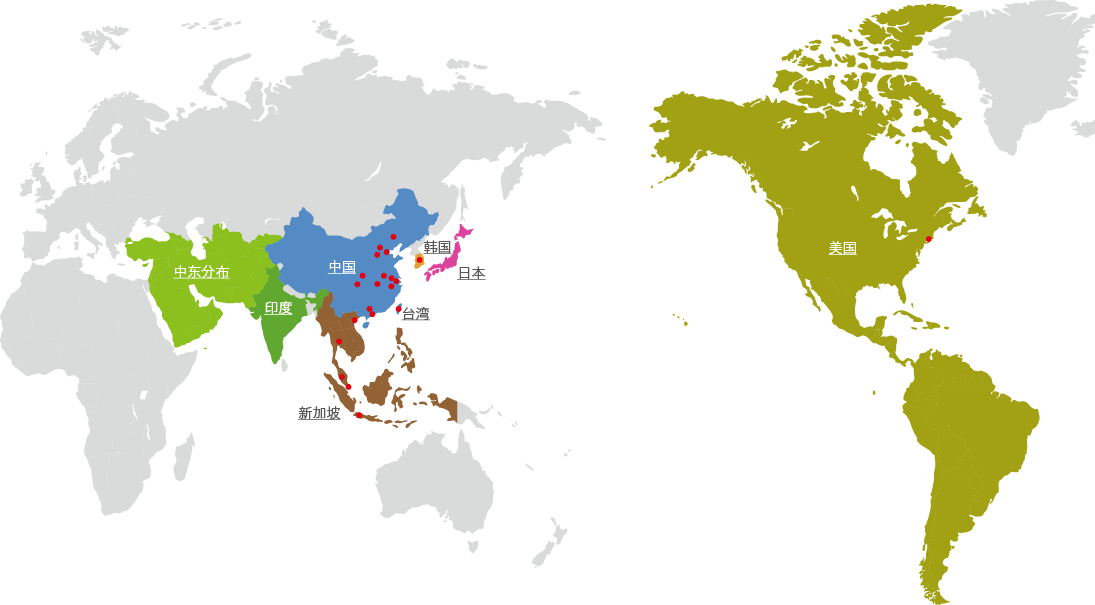
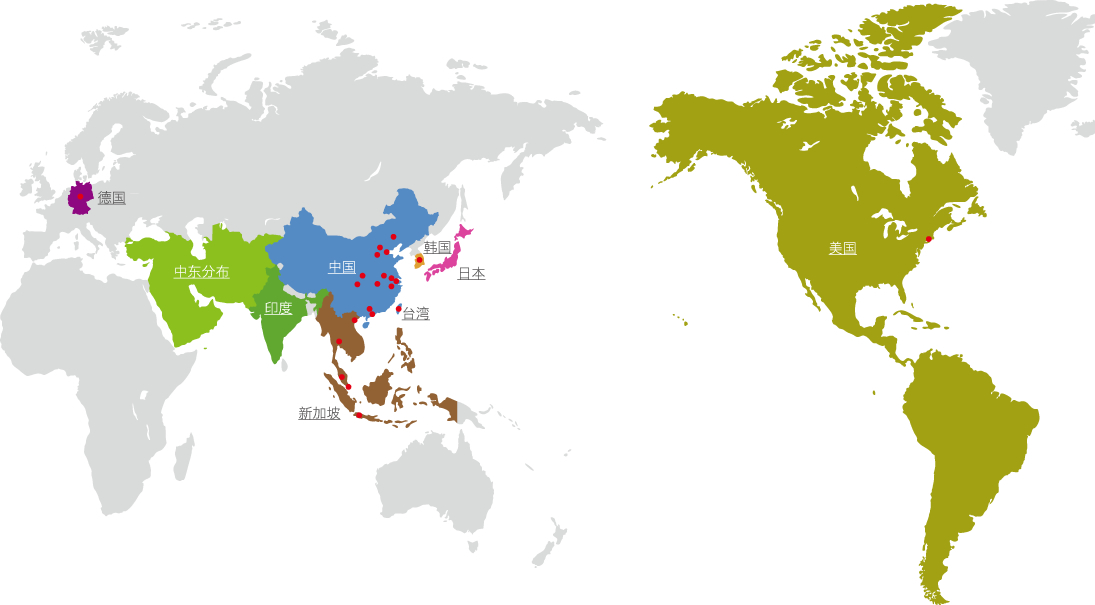
new file:   app/assets/images/front/distribution_r21_c2.jpg

diff --git a/app/assets/images/front/distribution.html b/app/assets/images/front/distribution.html
@@ -1,0 +1,368 @@
+<!DOCTYPE html PUBLIC "-//W3C//DTD XHTML 1.0 Transitional//EN" "http://www.w3.org/TR/xhtml1/DTD/xhtml1-transitional.dtd">
+<html xmlns="http://www.w3.org/1999/xhtml" lang="zh">
+<head>
+<meta http-equiv="Content-Type" content="text/html; charset=utf-8" />
+<title>HIOKI-中国区维修服务中心（日置(上海) 商贸有限公司）</title>
+<link href="../css/style.css" rel="stylesheet" type="text/css" />
+<link rel="stylesheet" href="../css/colorbox.css" type="text/css" >
+<script type="text/javascript" src="../js/scrollsmoothly.js"></script>
+<script type="text/javascript" src="../js/tab.js"></script>
+<script src="../js/jquery-1.9.1.js"></script>
+<script src="../js/jquery.colorbox.js"></script>
+<script>
+	$(document).ready(function(){
+	//Examples of how to assign the Colorbox event to elements
+		$(".health01").colorbox({iframe:true, innerWidth:925, innerHeight:515});
+		$(".callbacks").colorbox({
+			onOpen:function(){ alert('onOpen: colorbox is about to open'); },
+			onLoad:function(){ alert('onLoad: colorbox has started to load the targeted content'); },
+			onComplete:function(){ alert('onComplete: colorbox has displayed the loaded content'); },
+			onCleanup:function(){ alert('onCleanup: colorbox has begun the close process'); },
+			onClosed:function(){ alert('onClosed: colorbox has completely closed'); }
+		});
+
+		$('.non-retina').colorbox({rel:'group5', transition:'none'})
+		$('.retina').colorbox({rel:'group5', transition:'none', retinaImage:true, retinaUrl:true});
+		//Example of preserving a JavaScript event for inline calls.
+		$("#click").click(function(){ 
+			$('#click').css({"background-color":"#f00", "color":"#fff", "cursor":"inherit"}).text("Open this window again and this message will still be here.");
+			return false;
+		});
+	});
+</script>
+</head>
+
+<body>
+<a name="top" id="top"></a>
+<div class="top_bg">
+  <div class="top clearfix">
+	<p class="fl">中国区维修服务中心（日置(上海) 商贸有限公司）</p>
+    <p class="fr"><a href="#"><img src="../images/hioki_r1_c30.jpg" width="28" height="26" />会员退出</a>　<img src="../images/hioki_r1_c32.jpg" width="22" height="26" />400-920-6010</p>
+  </div>
+</div>
+<div class="header">
+  <h1 class="fl"><a href="../index.html"><img src="../images/hioki_r4_c3.jpg" alt="HIOKI" width="150" height="30" /></a></h1>
+  <ul>
+  	<li><a href="../index.html">首　　页</a></li>
+    <li><a href="../news.html">新　　闻</a></li>
+    <li><a href="../product.html">产品一览</a></li>
+    <li class="nav_li"><a href="company.html">公司介绍</a></li>
+    <li><a href="../contact.html">联系我们</a></li>
+    <li class="nav_li02"><a href="../repair.html">维修中心</a></li>
+  </ul>
+</div>
+<div class="company_banner"></div>
+<div class="news_content clearfix">
+  <div class="product_left" >
+	<h3>公司介绍<br /><span class="hioki_f15">Company</span></h3>
+	<ul class="m_top10">
+	  <li><a href="distribution.html">公司分布</a></li>
+	  <li><a href="speech.html">董事致辞</a></li>
+	  <li><a href="company.html">公司概要</a></li>
+      <li><a href="history.html">公司沿革</a></li>
+	</ul>
+  </div>
+  <div class="product_right">
+  	<p class="current"><a href="../index.html">首页</a> > <a href="company.html">公司介绍</a> > 公司分布</p>
+    <p class="m_top20"><strong class="product_f25">世界分布</strong>　※点击选择国家查看具体分布</p>
+    <p class="m_top45">&nbsp;</p>
+    <p><img src="../images/distribution_r1_c1.jpg" width="1095" height="605" border="0" usemap="#Map" />
+      <map name="Map" id="Map">
+        <area shape="poly" coords="132,261,122,243,125,235,136,241,144,237,162,240,169,237,167,230,190,240,194,247,191,253,201,260,204,257,204,245,211,240,211,225,218,223,240,232,249,241,258,234,271,234,283,236,265,245,267,255,274,265,267,269,268,276,257,294,252,294,255,305,250,308,248,309,241,301,216,301,213,304,224,312,214,327,189,345,172,348,172,330,161,317,150,292,146,277,150,261" href="#d7" />
+        <area shape="poly" coords="284,236,284,226,290,224,292,215,300,215,304,209,313,217,320,228,328,235,351,239,358,235,366,236,372,229,371,225,377,225,389,219,396,218,391,213,383,213,388,205,393,202,398,191,403,187,416,195,425,207,437,213,430,226,424,237,400,250,401,243,393,250,390,253,394,257,398,254,400,258,396,267,402,283,397,297,385,313,369,317,368,320,368,327,362,327,363,323,365,316,360,317,354,312,348,312,342,313,342,318,334,311,332,305,334,297,335,291,330,292,322,288,316,292,305,294,288,285,280,276,281,269,286,261,279,263,273,263,267,247" href="#d1" />
+        <area shape="poly" coords="275,265,267,269,269,277,258,294,253,295,255,301,250,309,257,319,261,317,275,365,283,351,282,338,302,321,306,314,306,301,314,311,322,304,328,295,322,290,308,295,298,297,284,289,278,276,278,272" href="#d5" />
+        <area shape="poly" coords="328,292,318,309,315,317,320,327,321,335,325,338,327,332,334,348,332,361,339,379,325,373,331,386,350,412,362,420,382,424,398,429,414,421,398,421,372,417,359,413,354,403,350,391,350,389,350,381,336,360,338,347,350,355,354,363,358,356,365,349,361,335,354,324,359,319,353,312,341,317,330,307,334,293" href="#d6" />
+        <area shape="poly" coords="362,383,362,391,367,403,382,409,396,412,401,409,423,405,439,407,450,416,448,421,456,424,457,403,446,397,440,403,435,395,427,393,420,389,404,386,391,383,389,378,392,377,411,369,418,367,411,349,402,341,401,329,400,330,394,339,389,361,384,368,376,376,369,384" href="#d6" />
+        <area shape="rect" coords="298,405,341,421" href="#d6" />
+        <area shape="poly" coords="402,301,396,303,395,308,399,316,406,321,431,321,429,306,402,307" href="#d2" />
+        <area shape="poly" coords="458,223,459,229,455,236,455,242,453,254,447,258,445,256,444,263,434,264,424,273,426,276,428,281,457,265,458,280,486,281,484,267,460,267,458,259,461,249,459,239,463,237,470,234,472,229,464,229" href="#d3" />
+        <area shape="poly" coords="424,240,451,240,452,255,423,255,424,264,416,269,414,265,416,255,424,252" href="#d4" />
+        <area shape="poly" coords="962,7,907,4,871,15,858,25,846,28,830,33,814,41,781,56,776,70,773,83,764,95,742,101,730,101,682,92,657,105,653,108,650,125,654,147,669,163,676,164,668,177,676,177,692,169,704,156,711,155,728,158,750,182,753,190,760,190,766,197,767,201,778,217,778,249,788,269,796,273,819,310,819,297,832,312,831,323,854,336,864,335,879,345,904,365,910,361,911,369,912,380,902,400,902,410,915,441,933,454,932,496,923,530,920,562,924,590,939,603,946,602,938,589,946,571,951,549,962,531,974,525,999,493,1014,472,1027,456,1038,414,1028,400,1001,393,990,380,981,369,973,369,953,353,928,351,916,361,905,357,896,354,896,338,882,335,888,319,878,317,872,324,863,325,852,305,857,291,866,285,878,288,884,284,894,288,900,289,900,299,896,313,916,322,924,328,944,329,937,322,917,316,905,310,908,297,902,283,916,265,926,247,936,231,952,229,964,225,966,217,956,220,952,215,958,210,968,216,984,215,983,207,978,192,972,179,952,155,944,163,936,152,927,143,916,142,909,161,918,170,911,181,910,195,908,199,900,189,902,180,894,177,875,171,868,162,870,139,878,136,894,141,900,147,903,133,912,131,925,131,931,141,941,143,952,141,961,119,950,108,944,98,928,86,912,80,906,73,911,57,920,39,938,24" href="#d8" />
+        <area shape="rect" coords="67,180,127,216" href="#d9" />
+      </map>
+    </p>
+    <p class="m_top45">&nbsp;</p>
+    <a name="d1" id="d1"></a>
+    <h3><img src="../images/distribution_r3_c2.jpg" width="171" height="41" /></h3>
+    <ul class="distribution_fb m_top10 clearfix">
+      <li>
+      	<h3 class="recorder_f16">总部</h3>
+        <p class="distribution_fgs">上海日置(上海) 商贸有限公司</p>
+        <p><a id="try-1" class="health01 cboxElement" href="china01.html">查看详情 <img src="../images/distribution_r5_c3.jpg" width="10" height="9" /></a></p>
+      </li>
+      <li>
+      	<h3 class="recorder_f16">北京</h3>
+        <p class="distribution_fgs">日置(上海) 商贸有限公司<br />北京分公司</p>
+        <p><a id="try-1" class="health01 cboxElement" href="china02.html">查看详情 <img src="../images/distribution_r5_c3.jpg" width="10" height="9" /></a></p>
+      </li>
+      <li>
+      	<h3 class="recorder_f16">广州</h3>
+        <p class="distribution_fgs">日置(上海) 商贸有限公司<br />广州分公司</p>
+        <p><a id="try-1" class="health01 cboxElement" href="china03.html">查看详情 <img src="../images/distribution_r5_c3.jpg" width="10" height="9" /></a></p>
+      </li>
+      <li>
+      	<h3 class="recorder_f16">深圳</h3>
+        <p class="distribution_fgs">日置(上海) 商贸有限公司<br />深圳分公司</p>
+        <p><a id="try-1" class="health01 cboxElement" href="china04.html">查看详情 <img src="../images/distribution_r5_c3.jpg" width="10" height="9" /></a></p>
+      </li>
+      <li>
+      	<h3 class="recorder_f16">苏州</h3>
+        <p class="distribution_fgs">日置(上海) 商贸有限公司<br />苏州联络事务所</p>
+        <p><a id="try-1" class="health01 cboxElement" href="china05.html">查看详情 <img src="../images/distribution_r5_c3.jpg" width="10" height="9" /></a></p>
+      </li>
+      <li>
+      	<h3 class="recorder_f16">南京</h3>
+        <p class="distribution_fgs">日置(上海) 商贸有限公司<br />南京联络事务所</p>
+        <p><a id="try-1" class="health01 cboxElement" href="china06.html">查看详情 <img src="../images/distribution_r5_c3.jpg" width="10" height="9" /></a></p>
+      </li>
+      <li>
+      	<h3 class="recorder_f16">成都</h3>
+        <p class="distribution_fgs">日置(上海) 商贸有限公司<br />成都联络事务所</p>
+        <p><a id="try-1" class="health01 cboxElement" href="china07.html">查看详情 <img src="../images/distribution_r5_c3.jpg" width="10" height="9" /></a></p>
+      </li>
+      <li>
+      	<h3 class="recorder_f16">沈阳</h3>
+        <p class="distribution_fgs">日置(上海) 商贸有限公司<br />沈阳联络事务所</p>
+        <p><a id="try-1" class="health01 cboxElement" href="china08.html">查看详情 <img src="../images/distribution_r5_c3.jpg" width="10" height="9" /></a></p>
+      </li>
+      <li>
+      	<h3 class="recorder_f16">西安</h3>
+        <p class="distribution_fgs">日置(上海) 商贸有限公司<br />西安联络事务所</p>
+        <p><a id="try-1" class="health01 cboxElement" href="china09.html">查看详情 <img src="../images/distribution_r5_c3.jpg" width="10" height="9" /></a></p>
+      </li>
+      <li>
+      	<h3 class="recorder_f16">武汉</h3>
+        <p class="distribution_fgs">日置(上海) 商贸有限公司<br />武汉联络事务所</p>
+        <p><a id="try-1" class="health01 cboxElement" href="china10.html">查看详情 <img src="../images/distribution_r5_c3.jpg" width="10" height="9" /></a></p>
+      </li>
+      <li>
+      	<h3 class="recorder_f16">济南</h3>
+        <p class="distribution_fgs">日置(上海) 商贸有限公司<br />济南联络事务所</p>
+        <p><a id="try-1" class="health01 cboxElement" href="china11.html">查看详情 <img src="../images/distribution_r5_c3.jpg" width="10" height="9" /></a></p>
+      </li>
+      <li>
+      	<h3 class="recorder_f16">中国区维修服务中心</h3>
+        <p class="distribution_fgs">日置(上海) 商贸有限公司<br />维修服务中心</p>
+        <p><a id="try-1" class="health01 cboxElement" href="china12.html">查看详情 <img src="../images/distribution_r5_c3.jpg" width="10" height="9" /></a></p>
+      </li>
+    </ul>
+    <p class="distribution_x"></p>
+    <a name="d2" id="d2"></a>
+    <h3 class="m_top45"><img src="../images/distribution_r7_c2.jpg" width="183" height="41" /></h3>
+    <ul class="distribution_fb2 m_top10 clearfix">
+      <li>
+      	<h3 class="recorder_f16">常驻代表办事处</h3>
+        <p class="distribution_fgs">&nbsp;</p>
+        <p><a id="try-1" class="health01 cboxElement" href="taiwan01.html">查看详情 <img src="../images/distribution_r5_c3.jpg" width="10" height="9" /></a></p>
+      </li>
+    </ul>
+    <p class="distribution_x"></p>
+    <a name="d3" id="d3"></a>
+    <h3 class="m_top45"><img src="../images/distribution_r9_c2.jpg" width="173" height="42" /></h3>
+    <ul class="distribution_fb m_top10 clearfix">
+      <li>
+      	<h3 class="recorder_f16">总公司</h3>
+        <p class="distribution_fgs">&nbsp;</p>
+        <p><a id="try-1" class="health01 cboxElement" href="japan01.html">查看详情 <img src="../images/distribution_r5_c3.jpg" width="10" height="9" /></a></p>
+      </li>
+      <li>
+      	<h3 class="recorder_f16">总公司客服中心</h3>
+        <p class="distribution_fgs">&nbsp;</p>
+        <p><a id="try-1" class="health01 cboxElement" href="japan02.html">查看详情 <img src="../images/distribution_r5_c3.jpg" width="10" height="9" /></a></p>
+      </li>
+      <li>
+      	<h3 class="recorder_f16">总公司订单中心</h3>
+        <p class="distribution_fgs">&nbsp;</p>
+        <p><a id="try-1" class="health01 cboxElement" href="japan03.html">查看详情 <img src="../images/distribution_r5_c3.jpg" width="10" height="9" /></a></p>
+      </li>
+      <li>
+      	<h3 class="recorder_f16">东北分公司</h3>
+        <p class="distribution_fgs">&nbsp;</p>
+        <p><a id="try-1" class="health01 cboxElement" href="japan04.html">查看详情 <img src="../images/distribution_r5_c3.jpg" width="10" height="9" /></a></p>
+      </li>
+      <li>
+      	<h3 class="recorder_f16">长野分公司</h3>
+        <p class="distribution_fgs">&nbsp;</p>
+        <p><a id="try-1" class="health01 cboxElement" href="japan05.html">查看详情 <img src="../images/distribution_r5_c3.jpg" width="10" height="9" /></a></p>
+      </li>
+      <li>
+      	<h3 class="recorder_f16">东京分公司</h3>
+        <p class="distribution_fgs">&nbsp;</p>
+        <p><a id="try-1" class="health01 cboxElement" href="japan06.html">查看详情 <img src="../images/distribution_r5_c3.jpg" width="10" height="9" /></a></p>
+      </li>
+      <li>
+      	<h3 class="recorder_f16">横滨分公司</h3>
+        <p class="distribution_fgs">&nbsp;</p>
+        <p><a id="try-1" class="health01 cboxElement" href="japan07.html">查看详情 <img src="../images/distribution_r5_c3.jpg" width="10" height="9" /></a></p>
+      </li>
+      <li>
+      	<h3 class="recorder_f16">厚木分公司</h3>
+        <p class="distribution_fgs">&nbsp;</p>
+        <p><a id="try-1" class="health01 cboxElement" href="japan08.html">查看详情 <img src="../images/distribution_r5_c3.jpg" width="10" height="9" /></a></p>
+      </li>
+      <li>
+      	<h3 class="recorder_f16">北关东分公司</h3>
+        <p class="distribution_fgs">&nbsp;</p>
+        <p><a id="try-1" class="health01 cboxElement" href="japan09.html">查看详情 <img src="../images/distribution_r5_c3.jpg" width="10" height="9" /></a></p>
+      </li>
+      <li>
+      	<h3 class="recorder_f16">静冈分公司</h3>
+        <p class="distribution_fgs">&nbsp;</p>
+        <p><a id="try-1" class="health01 cboxElement" href="japan10.html">查看详情 <img src="../images/distribution_r5_c3.jpg" width="10" height="9" /></a></p>
+      </li>
+      <li>
+      	<h3 class="recorder_f16">名古屋分公司</h3>
+        <p class="distribution_fgs">&nbsp;</p>
+        <p><a id="try-1" class="health01 cboxElement" href="japan11.html">查看详情 <img src="../images/distribution_r5_c3.jpg" width="10" height="9" /></a></p>
+      </li>
+      <li>
+      	<h3 class="recorder_f16">大阪分公司</h3>
+        <p class="distribution_fgs">&nbsp;</p>
+        <p><a id="try-1" class="health01 cboxElement" href="japan12.html">查看详情 <img src="../images/distribution_r5_c3.jpg" width="10" height="9" /></a></p>
+      </li>
+      <li>
+      	<h3 class="recorder_f16">广岛分公司</h3>
+        <p class="distribution_fgs">&nbsp;</p>
+        <p><a id="try-1" class="health01 cboxElement" href="japan13.html">查看详情 <img src="../images/distribution_r5_c3.jpg" width="10" height="9" /></a></p>
+      </li>
+      <li>
+      	<h3 class="recorder_f16">福冈分公司</h3>
+        <p class="distribution_fgs">&nbsp;</p>
+        <p><a id="try-1" class="health01 cboxElement" href="japan14.html">查看详情 <img src="../images/distribution_r5_c3.jpg" width="10" height="9" /></a></p>
+      </li>
+      <li>
+      	<h3 class="recorder_f16">外国营养分部（总公司内）</h3>
+        <p class="distribution_fgs">&nbsp;</p>
+        <p><a id="try-1" class="health01 cboxElement" href="japan15.html">查看详情 <img src="../images/distribution_r5_c3.jpg" width="10" height="9" /></a></p>
+      </li>
+      <li style="margin-top:3px; background:#FFF;">
+      </li>
+    </ul>
+    <p class="distribution_x"></p>
+    <a name="d4" id="d4"></a>
+    <h3 class="m_top45"><img src="../images/distribution_r11_c2.jpg" width="173" height="43" /></h3>
+    <dl class="m_top10 clearfix">
+      <dt class="distribution_w250 m_top15"><strong>HIOKI KOREA CO.,LTD. <br />（韓国販売会社）</strong></dt>
+      <dd class="fl">Rm# 1705, East Tower, Hanshin Intervalley 24<br />
+322 Teheran-ro, Gangnam-gu Seoul, 06211, Rep. of Korea<br />
+TEL +82-2-2183-8847　 FAX +82-2-2183-3360<br />
+E-mail:<a href="mailto:info-kr@hioki.co.jp">info-kr@hioki.co.jp</a><br />
+URL:<a href="http://www.hiokikorea.com" target="_blank">http://www.hiokikorea.com</a></dd>
+    </dl>
+    <p class="distribution_x"></p>
+    <a name="d5" id="d5"></a>
+    <h3 class="m_top45"><img src="../images/distribution_r13_c2.jpg" width="173" height="43" /></h3>
+    <dl class="m_top10 clearfix">
+      <dt class="distribution_w250 m_top15"><strong>HIOKI INDIA ENGINEERING <br />PRIVATE LIMITED</strong></dt>
+      <dd class="fl">415, Bestech Chambers, Sushant Lok - 1<br />
+B Block, Gurgaon, Haryana, 122 001, India<br />
+TEL +91-1244013811<br />
+E-mail:<a href="mailto:hioki@hioki.in">hioki@hioki.in</a><br />
+URL:<a href="http://www.hioki.com/" target="_blank">http://www.hioki.com/</a></dd>
+    </dl>
+    <p class="distribution_x"></p>
+    <a name="d6" id="d6"></a>
+    <h3 class="m_top45"><img src="../images/distribution_r15_c2.jpg" width="253" height="42" /></h3>
+    <dl class="m_top10 clearfix">
+      <dt class="distribution_w250 m_top5"><strong>HIOKI SINGAPORE PTE. <br />
+LTD.</strong></dt>
+      <dd class="fl">33 Ubi Avenue 3 #03-02 Vertex Singapore 408868<br />
+TEL +65-6634-7677　 FAX +65-6634-7477<br />
+E-mail:<a href="mailto:info-sg@hioki.com.sg">info-sg@hioki.com.sg</a><br />
+URL:<a href="http://www.hioki.com" target="_blank">http://www.hioki.com</a></dd>
+    </dl>
+    <p class="distribution_x"></p>
+    <a name="d7" id="d7"></a>
+    <h3 class="m_top45"><img src="../images/distribution_r17_c2.jpg" width="173" height="43" /></h3>
+    <dl class="m_top10 clearfix">
+      <dt class="distribution_w250 m_top15"><strong>中東駐在員事務所</strong></dt>
+      <dd class="fl">Office No. 5EA-812 Dubai Airport Free Zone P.O. Box 371097 Dubai, U.A.E.<br />
+TEL ＋971-4232-3400
+      </dd>
+    </dl>
+    <p class="distribution_x"></p>
+    <a name="d8" id="d8"></a>
+    <h3 class="m_top45"><img src="../images/distribution_r19_c2.jpg" width="173" height="43" /></h3>
+    <dl class="m_top10 clearfix">
+      <dt class="distribution_w250 m_top5"><strong>HIOKI USA CORPORATION</strong></dt>
+      <dd class="fl">6 Corporate Drive Cranbury, NJ 08512 U.S.A.<br />
+TEL +1-609-409-9109　 FAX +1-609-409-9108<br />
+E-mail:<a href="mailto:hioki@hiokiusa.com">hioki@hiokiusa.com</a><br />
+URL:<a href="http://www.hiokiusa.com/" target="_blank">http://www.hiokiusa.com/</a></dd>
+    </dl>
+    <p class="distribution_x"></p>
+    <a name="d9" id="d9"></a>
+    <h3 class="m_top45"><img src="../images/distribution_r21_c2.jpg" width="215" height="43" /></h3>
+    <dl class="m_top10 clearfix">
+      <dt class="distribution_w250 m_top5"><strong>HIOKI EUROPE GmbH</strong></dt>
+      <dd class="fl">Rudolf-Diesel-Strasse 5, 65760 Eschborn, Germany<br />
+TEL +49-6173-3234060　 FAX +49-6173-3234061<br />
+E-mail：hioki@hioki.eu<br />
+URL：<a href="http://www.hioki.com/" target="_blank">http://www.hioki.com/</a></dd>
+    </dl>
+    <p class="distribution_x"></p>
+  </div>
+</div>
+<p class="m_top45">&nbsp;</p>
+<p class="hioki_page"><a href="#top"><img src="../images/hioki_r28_c37.jpg" width="60" height="57" /></a></p>
+<div class="hioki_column">
+  <div class="hioki_search clearfix">
+  	<div class="hioki_column01">
+      <h3 class="hioki_f23">业界商品分类 <span class="hioki_f15">Search Applications</span></h3>
+      <ul class="m_top25">
+      	<li>&gt; 电力/新能源 <span class="hioki_f12">Power, Energy, Environment</span></li>
+        <li class="m_top10">&gt; 汽车 <span class="hioki_f12">Automotive, Transport</span></li>
+        <li class="m_top10">&gt; 电子零件 <span class="hioki_f12">Components, Semiconductors</span></li>
+        <li class="m_top10">&gt; 通信 <span class="hioki_f12">Home appliances, Communications</span></li>
+        <li class="m_top10">&gt; 电池 <span class="hioki_f12">Battery</span></li>
+        <li class="m_top10">&gt; 交通（地铁、铁道、航空）<br />　<span class="hioki_f12">Underground, Railway, Aviation</span></li>
+        <li>&nbsp;</li>
+      </ul>
+    </div>
+    <div class="hioki_column02 clearfix">
+      <h3 class="hioki_f23">日置产品一览 <span class="hioki_f15">Search Category</span></h3>
+      <ul class="hioki_w205 m_top25">
+      	<li>&gt; 记录仪、存储记录仪</li>
+        <li class="m_top10">&gt; 安全标准测量仪</li>
+        <li class="m_top10">&gt; 电力测量仪器</li>
+        <li class="m_top10">&gt; 电子测量仪表</li>
+        <li class="m_top10">&gt; 钳形表、钳式传感器</li>
+        <li class="m_top10">&gt; 数据记录、环境测量</li>
+        <li class="m_top10">&gt; 现场测试仪</li>
+      </ul>
+      <ul class="fl m_top25">
+      	<li>&gt; 通讯测试仪</li>
+        <li class="m_top10">&gt; 万用表</li>
+        <li class="m_top10">&gt; 自动测试设备</li>
+        <li class="m_top10">&gt; 信号发生器</li>
+        <li class="m_top10">&gt; 其他测试仪</li>
+        <li class="m_top10">&gt; HIOKI其他产品</li>
+      </ul>
+    </div>
+    <div class="hioki_column03">
+      <h3 class="hioki_f23">关于日置 <span class="hioki_f15">About HIOKI</span></h3>
+      <ul class="m_top25">
+      	<li><a href="company.html">&gt; 公司分布</a></li>
+        <li class="m_top10"><a href="speech.html">&gt; 董事致辞</a></li>
+        <li class="m_top10"><a href="company.html">&gt; 公司概要</a></li>
+        <li class="m_top10"><a href="history.html">&gt; 公司沿革</a></li>
+      </ul>
+    </div>
+  </div>
+</div>
+<div class="footer clearfix">
+  <h1 class="fl"><img src="../images/hioki_r30_c2.jpg" width="148" height="30" /></h1>
+  <p class="footer_dh"><img src="../images/hioki_r31_c14.jpg" width="17" height="17" /> 021-63343307/3308</p>
+  <p class="footer_dh"><img src="../images/hioki_r32_c18.jpg" width="15" height="12" /> info@hioki.com.cn</p>
+  <p class="footer_dh">中国区维修服务中心（日置(上海) 商贸有限公司）</p>
+  <ul class="fr">
+  	<li><a href="../index.html">&gt; 首　页</a></li>
+    <li><a href="../news.html">&gt; 新　闻</a></li>
+    <li><a href="../product.html">&gt; 产品一览</a></li>
+    <li><a href="company.html">&gt; 公司介绍</a></li>
+    <li><a href="../contact.html">&gt; 联系我们</a></li>
+  </ul>
+  <p class="footer_icp clear">沪ICP备05013343号</p>
+</div>
+</body>
+</html>
